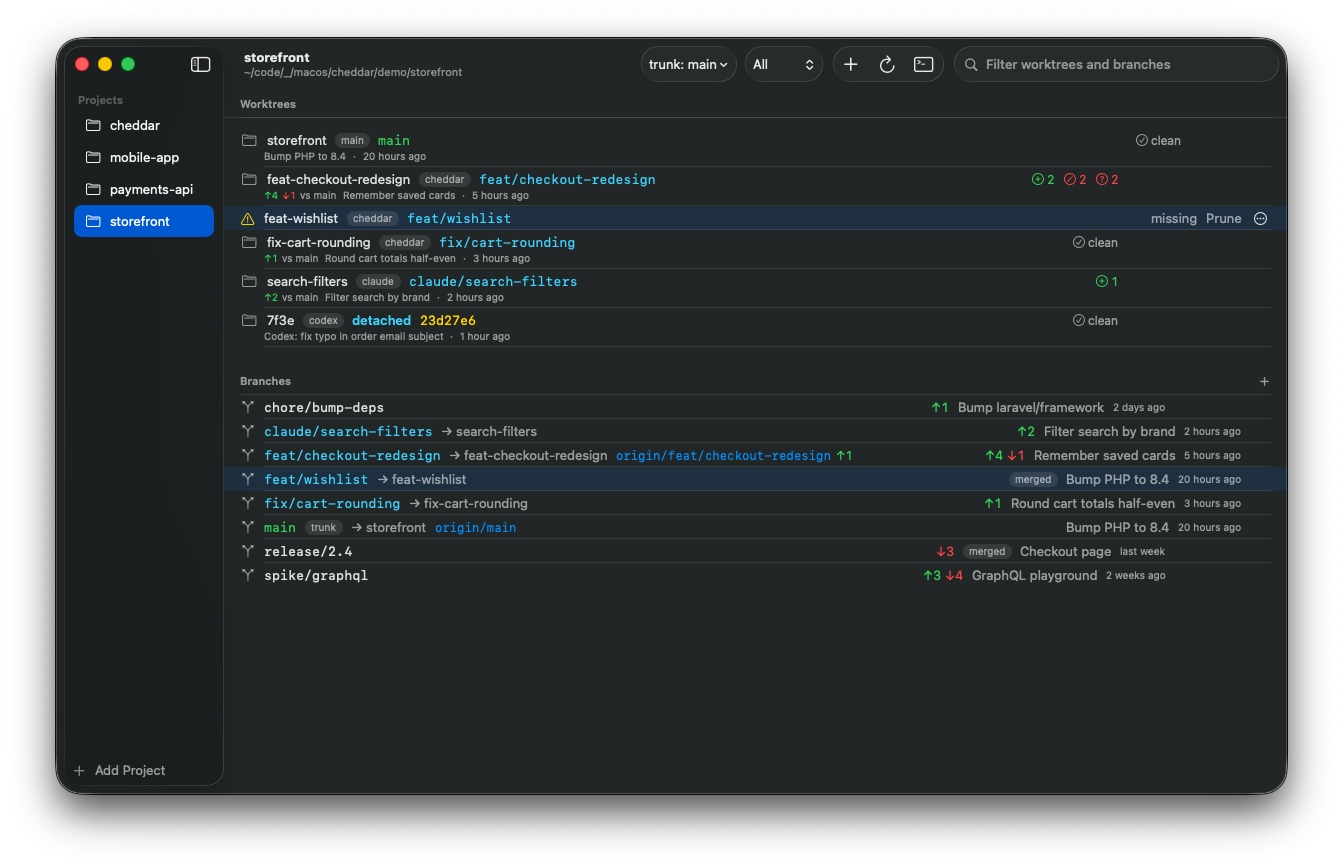
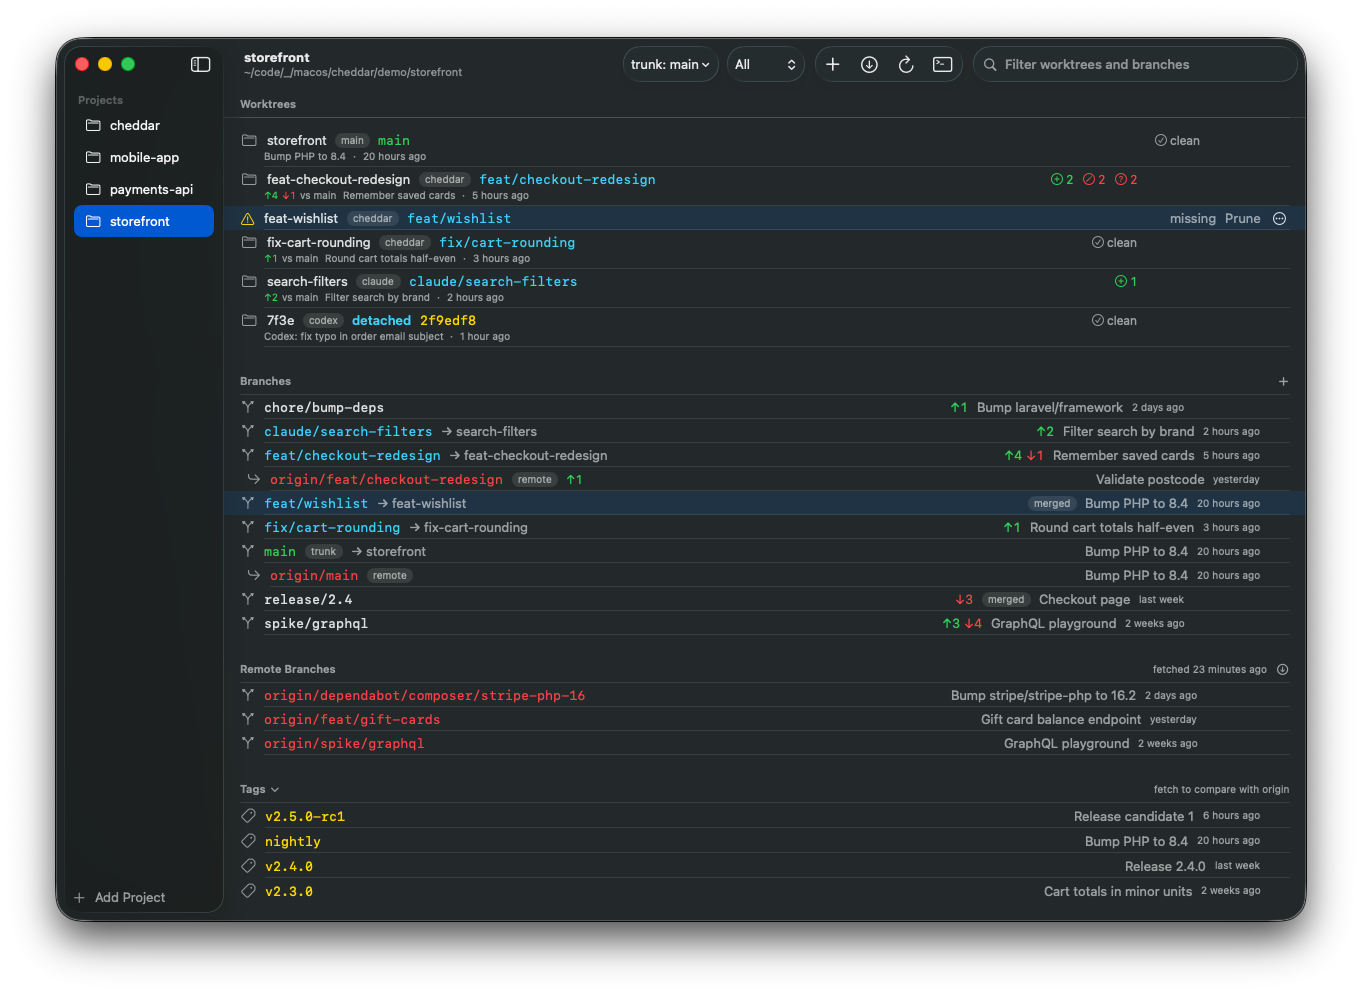
update screenshots

Changed region(s): [[0.0305, 0.0311, 0.9769, 0.9643], [0.7937, 0.3111, 0.8243, 0.3733]]

diff --git a/README.md b/README.md
@@ -85,12 +85,17 @@ scripts/make-icons.sh
 
 ## Screenshots
 
+**Light mode**
+
 <picture>
-  <source media="(prefers-color-scheme: dark)" srcset="screenshots/cheddar-dark.png">
-  <img src="screenshots/cheddar-light.png" alt="Cheddar's main window, showing a project's worktrees from Cheddar, Claude Code and Codex, and its branches with status">
+  <img src="screenshots/cheddar-light.png" alt="Cheddar's main window in light mode, showing a project's worktrees from Cheddar, Claude Code and Codex, and its branches with status">
 </picture>
 
-The main window follows your GitHub theme. See it in [light](screenshots/cheddar-light.png) and [dark](screenshots/cheddar-dark.png).
+**Dark mode**
+
+<picture>
+  <img src="screenshots/cheddar-dark.png" alt="Cheddar's main window in dark mode, showing a project's worktrees from Cheddar, Claude Code and Codex, and its branches with status">
+</picture>
 
 | General | Appearance |
 |---|---|
